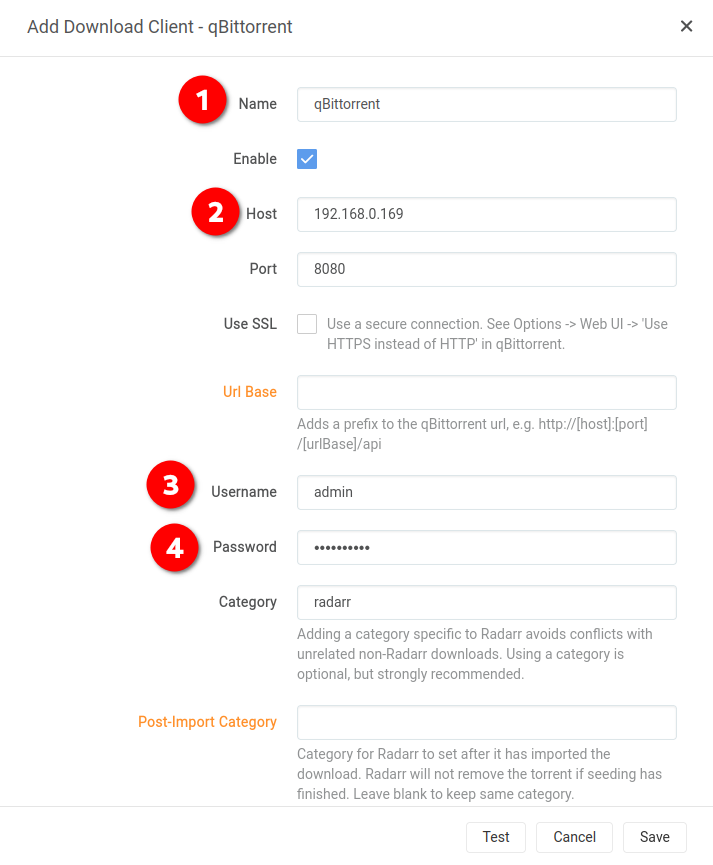
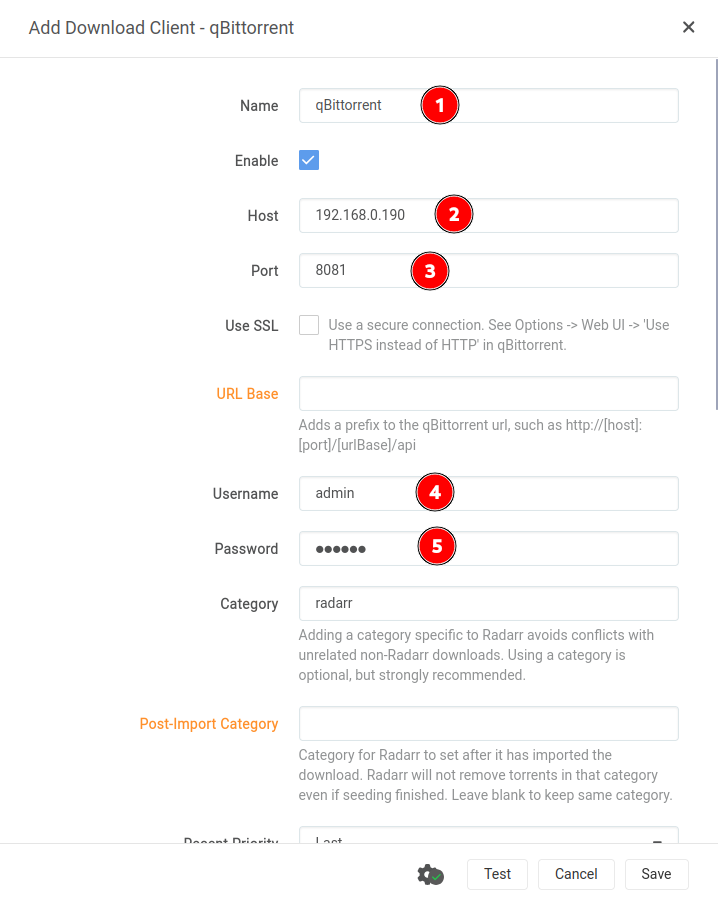
Updated Radarr authentication and path updates

diff --git a/content/config/radarr.md b/content/config/radarr.md
@@ -16,7 +16,16 @@ In YAMS, Radarr is going to manage all our movies, download them, sort them, etc
 
 ## Initial configuration
 
-In your browser, go to [http://{your-ip-address}:7878/]() and you'll see Radarr's empty page. You'll also notice you have 3 messages on the system tab, but we'll deal with them later.
+In your browser, go to [http://{your-ip-address}:7878/](). You'll see the authentication configuration page. 
+
+- Select "Forms (Login Page)" as the "Authentication Method".
+- In "Authentication Required" select "Disabled for Local Addresses".
+
+Fill it in with your information and click on save:
+
+[![radarr-18](/pics/radarr-18.png)](/pics/radarr-18.png)
+
+Then you'll see Radarr's empty page. You'll also notice you have 3 messages on the system tab, but we'll deal with them later.
 
 [![radarr-1](/pics/radarr-1.png)](/pics/radarr-1.png)
 
@@ -33,11 +42,11 @@ At the bottom of the same screen, go to "Root folders" and click on "Add Root Fo
 
 [![radarr-3](/pics/radarr-3.png)](/pics/radarr-3.png)
 
-And add the `/movies/` folder
+And add the `/data/movies/` folder
 
 [![radarr-4](/pics/radarr-4.png)](/pics/radarr-4.png)
 
-**Note:** This is NOT on your filesystem! The `/movies/` folder exists inside the `docker` environment and maps to your server `/mediafolder/movies/` folder!
+**Note:** This is NOT on your filesystem! The `/data/movies/` folder exists inside the `docker` environment and maps to your server `/mediafolder/media/movies/` folder!
 
 Finally, click on "Save Changes".
 
@@ -57,8 +66,9 @@ On the "Add Download Client" screen, scroll down and click on "qBittorrent".
 
 - In Name, add the name of your download client (qBittorrent).
 - On Host, add your server IP address (in my case, `192.168.0.169`).
+- On Port, change it to 8081.
 - On Username, add `admin`.
-- On Password, add `adminadmin`.
+- On Password, add `your-password`.
 
 [![radarr-15](/pics/radarr-15.png)](/pics/radarr-15.png)
 
